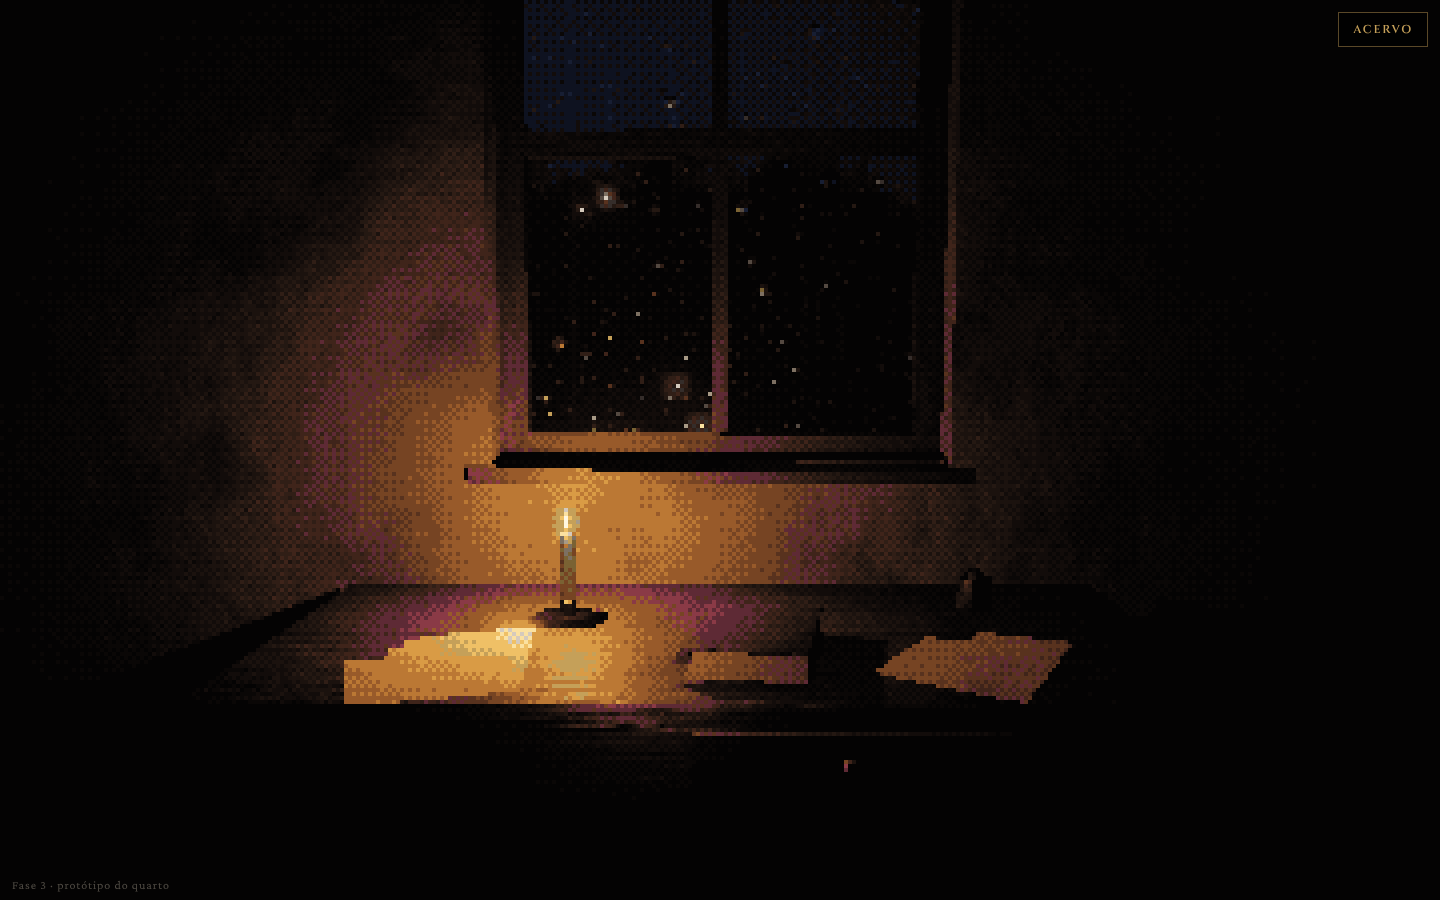
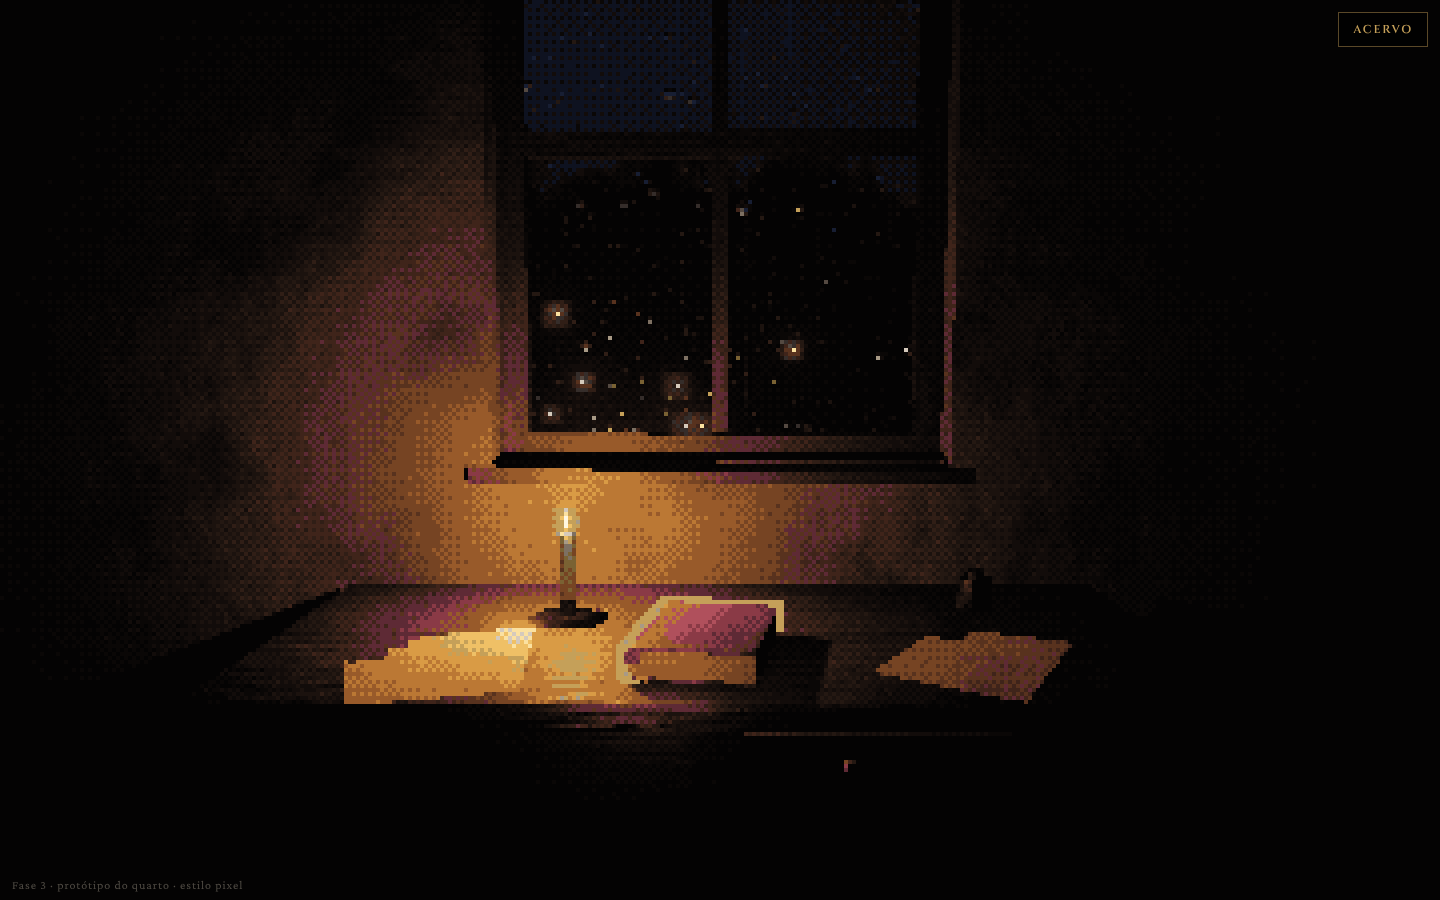
Livro mais visível no estilo pixel: capa vinho, filete dourado e mais perto da vela
Claude-Session: https://claude.ai/code/session_01PAroyFVcYGoQudUEASQKDN

diff --git a/src/scene/objects/Book.tsx b/src/scene/objects/Book.tsx
@@ -2,6 +2,7 @@ import { RoundedBox } from '@react-three/drei'
 import { useMemo } from 'react'
 import * as THREE from 'three'
 import { BOOK, DESK } from '../layout'
+import { STYLE } from '../style'
 import { usePbr } from '../textures'
 
 /**
@@ -63,7 +64,14 @@ export function Book() {
     return tex
   }, [])
 
-  const coverMat = <meshStandardMaterial {...leather} normalScale={new THREE.Vector2(0.45, 0.45)} />
+  // couro vinho (cor da identidade) para o livro não se confundir com a madeira da mesa;
+  // no estilo pixel a capa é de cor chapada, que lê melhor em poucos pixels
+  const coverMat =
+    STYLE === 'pixel' ? (
+      <meshStandardMaterial color="#8a2c3c" roughness={0.6} />
+    ) : (
+      <meshStandardMaterial {...leather} color="#d0606e" normalScale={new THREE.Vector2(0.45, 0.45)} />
+    )
 
   return (
     <group position={[BOOK.x, DESK.height, BOOK.z]} rotation={[0, BOOK.rotY, 0]}>
@@ -83,10 +91,18 @@ export function Book() {
         <cylinderGeometry args={[t / 2, t / 2, h + over * 2, 24, 1, false, Math.PI / 2, Math.PI]} />
         {coverMat}
       </mesh>
+      {/* no estilo pixel, um filete dourado de cerca de 1 pixel em volta do livro, para destacá-lo da
+          mesa escura: caixa um pouco maior, desenhada só por dentro (casca invertida) */}
+      {STYLE === 'pixel' && (
+        <mesh position={[-0.004, (t + 0.006) / 2, 0]}>
+          <boxGeometry args={[w + over + 0.008 + 0.02, t + 0.006, h + over * 2 + 0.02]} />
+          <meshBasicMaterial color="#e0b060" side={THREE.BackSide} />
+        </mesh>
+      )}
       {/* gravação dourada */}
       <mesh position={[0, t + 0.0002, 0]} rotation={[-Math.PI / 2, 0, 0]} receiveShadow>
         <planeGeometry args={[w * 0.92, h * 0.94]} />
-        <meshStandardMaterial color="#c9a25a" metalness={1} roughness={0.4} envMapIntensity={4} alphaMap={goldAlpha} transparent depthWrite={false} />
+        <meshStandardMaterial color="#c9a25a" metalness={1} roughness={0.4} envMapIntensity={4} emissive="#c5a059" emissiveIntensity={STYLE === 'pixel' ? 0.45 : 0} alphaMap={goldAlpha} transparent depthWrite={false} />
       </mesh>
     </group>
   )

diff --git a/src/scene/shaders/palette.ts b/src/scene/shaders/palette.ts
@@ -10,8 +10,8 @@ export const PIXEL_PALETTE = [
   '#040303', '#0a0706', '#120c0a', '#1b120e', '#241812',
   // rampa quente
   '#301e16', '#3f241a', '#58321e', '#764423', '#985a2a', '#bb7834', '#d99b45', '#efc066', '#fbe1a0', '#fff7e0',
-  // vinho e dourado gasto
-  '#5e2a35', '#8a3a46', '#7a6233', '#c5a059',
+  // vinho (capa do livro) e dourado gasto
+  '#5e2a35', '#8a3a46', '#b0505c', '#7a6233', '#c5a059',
   // neutros de gesso e papel
   '#352d2a', '#544941', '#7d7062', '#a89a86', '#d5cabc',
   // rampa fria da noite

diff --git a/src/scene/layout.ts b/src/scene/layout.ts
@@ -6,4 +6,4 @@ export const DESK = { width: 1.4, depth: 0.66, height: 0.76, top: 0.035, z: -0.9
 export const CANDLE = { x: -0.25, z: -1.0, wax: 0.115 }
 /** altura da base da chama: tampo + castiçal + vela */
 export const FLAME_BASE_Y = DESK.height + 0.032 + CANDLE.wax + 0.006
-export const BOOK = { x: 0.06, z: -0.8, rotY: -0.16, w: 0.17, h: 0.245, t: 0.046 }
+export const BOOK = { x: -0.01, z: -0.8, rotY: -0.16, w: 0.17, h: 0.245, t: 0.046 }
